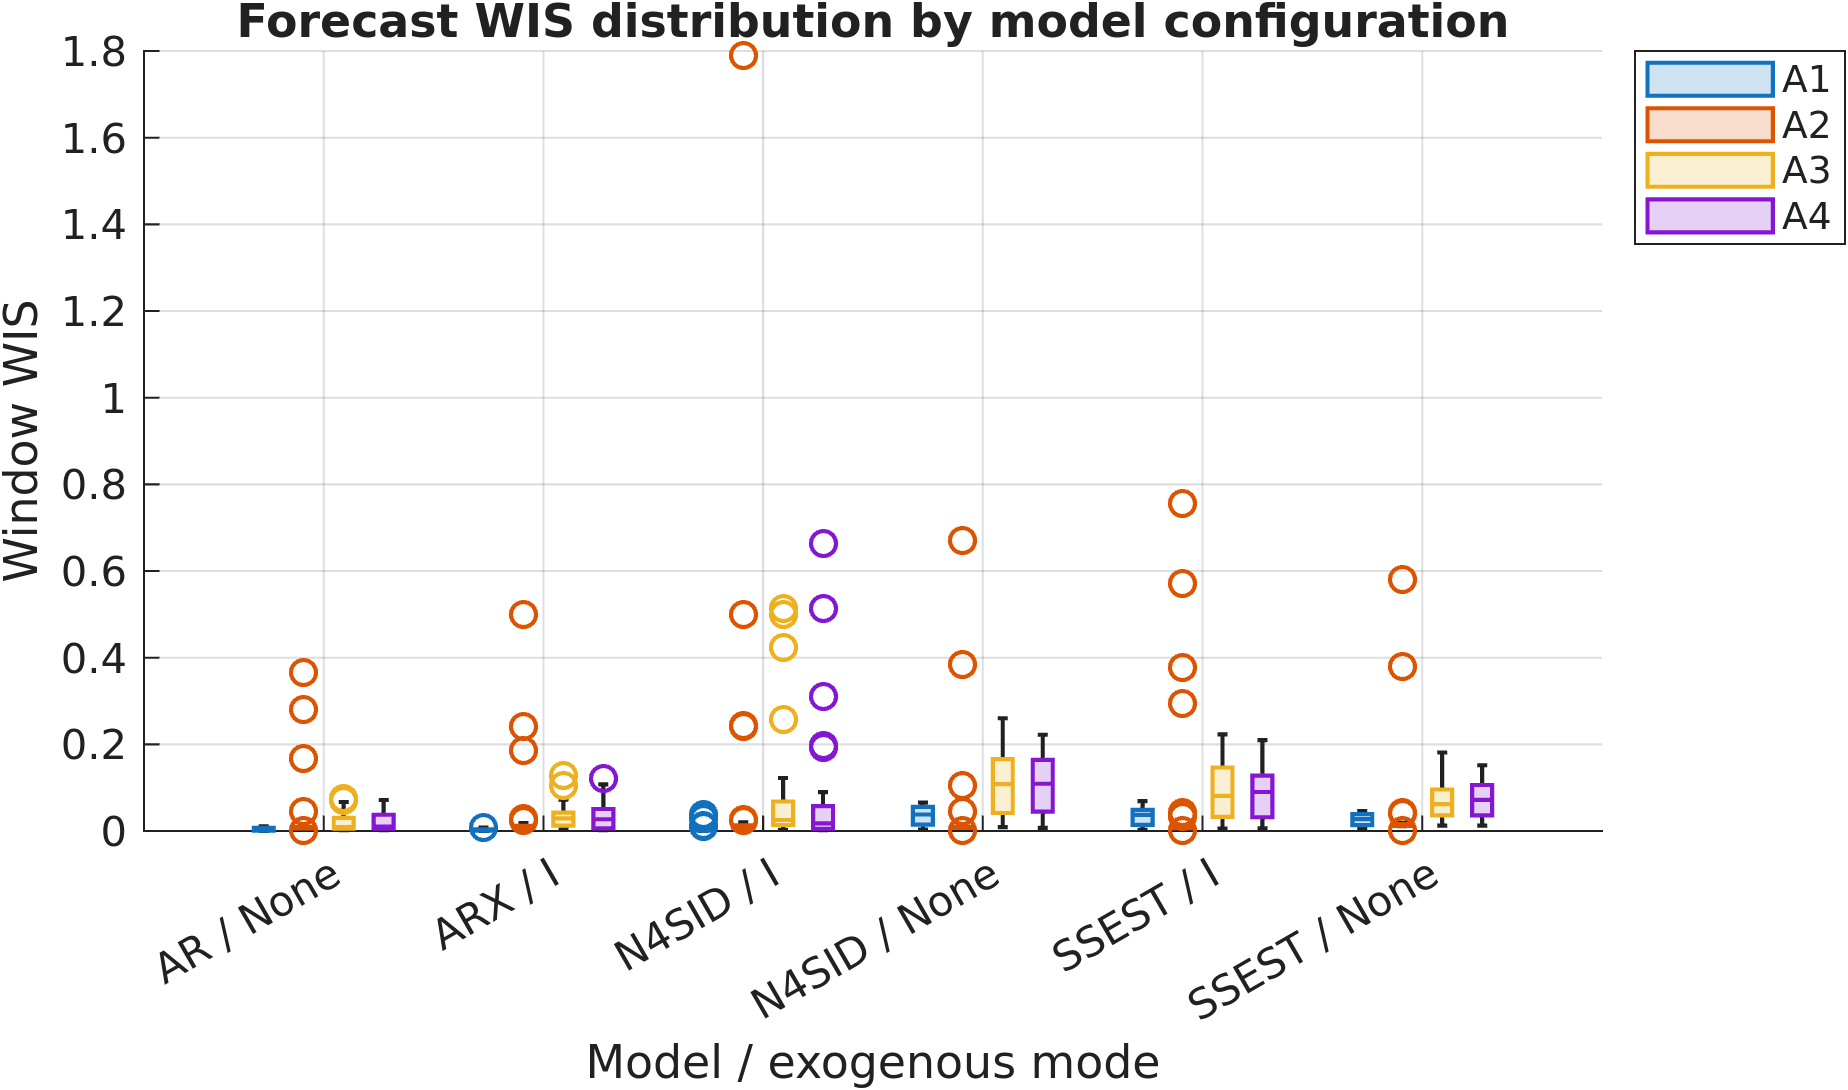
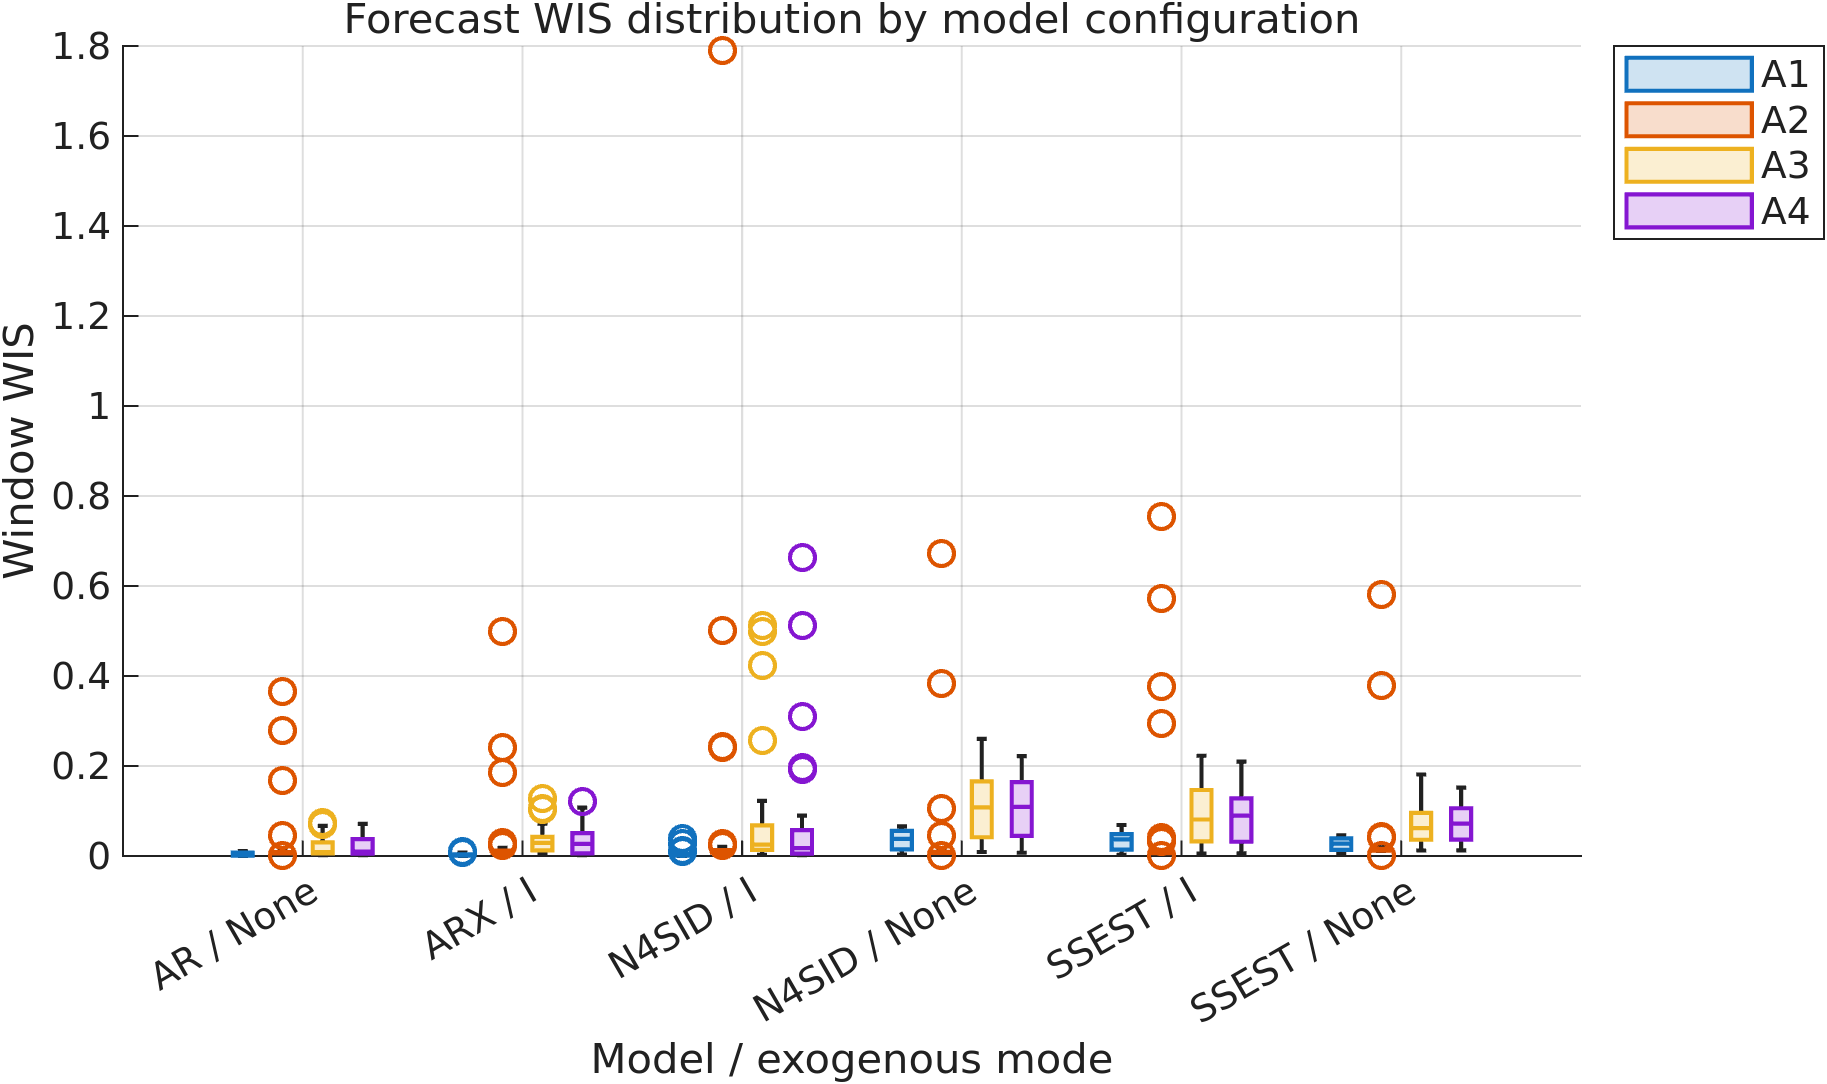
feat(visualization): enhance figure generation and plotting specifications

diff --git a/scripts/partA/partA_05_generate_figures.m b/scripts/partA/partA_05_generate_figures.m
@@ -64,16 +64,19 @@ fprintf('Indexed %d forecast artifacts, %d selection artifacts, and %d table fil
 generated_figures = strings(0, 1);
 
 %% 3. Scenario Trajectories
-scenario_labels = local_scenario_labels(truth_scenarios);
 rt_spec = build_plot_spec( ...
     'figure_name', "Part A Rt scenarios", ...
-    'title', "Synthetic effective reproduction-number scenarios", ...
-    'x_label', "Time (days)", ...
-    'y_label', "$\mathcal{R}_t$", ...
-    'scenario_labels', scenario_labels, ...
+    'title', "", ...
+    'shared_x_label', "Time, $t$ (days)", ...
+    'shared_y_label', "Effective reproduction number, $R_t$", ...
+    'panel_labels', local_panel_labels(numel(truth_scenarios)), ...
+    'panel_label_style', struct('FontSize', 10, 'FontWeight', 'bold'), ...
+    'font_size', 9, ...
+    'axis_label_font_size', 10, ...
+    'tick_label_font_size', 9, ...
     'y_limits', cfg.Rt.bounds, ...
     'output_path', fullfile(figure_dir, 'partA_05_rt_scenarios.png'), ...
-    'size_cm', [17.0, 12.0]);
+    'size_cm', [17.0, 10.5]);
 rt_panels = local_rt_scenario_panels(truth_scenarios, rt_spec);
 fig = plot_multi_panel_figure(rt_panels, rt_spec);
 generated_figures = [generated_figures; export_figure(fig, rt_spec)]; %#ok<AGROW>
@@ -151,30 +154,31 @@ else
             char(local_safe_token(scenario_id)), ...
             char(local_safe_token(best_config.Model)), ...
             char(local_safe_token(best_config.ExoMode)));
-        comparison_title = sprintf('%d-day-ahead forecast comparison: %s, %s / %s', ...
-            cfg.forecast.plot_lead_time, char(truth_scenarios(i).scenario_name), ...
-            char(best_config.Model), char(best_config.ExoMode));
-        interval_labels = string(compose('%d%% predictive interval', ...
+        interval_labels = string(compose('%d%% PI', ...
             round((1 - sort(double(cfg.forecast.plot_alphas(:)))) * 100)));
         interval_labels = interval_labels(:);
         legend_spec = struct( ...
             'truth_label', "Ground truth", ...
-            'median_label', sprintf('%d-day-ahead median forecast', ...
-            cfg.forecast.plot_lead_time), ...
+            'median_label', "Median forecast", ...
             'interval_labels', interval_labels, ...
-            'location', "northwest");
+            'location', "northoutside", ...
+            'orientation', "horizontal", ...
+            'box', "off");
 
         comparison_spec = build_plot_spec( ...
             'figure_name', "Part A forecast comparison", ...
-            'title', comparison_title, ...
-            'x_label', "Time (days)", ...
-            'y_label', "$\mathcal{R}_t$", ...
+            'title', "", ...
+            'x_label', "Time, $t$ (days)", ...
+            'y_label', "Effective reproduction number, $R_t$", ...
+            'font_size', 9, ...
+            'axis_label_font_size', 10, ...
+            'tick_label_font_size', 9, ...
             'lead_time', cfg.forecast.plot_lead_time, ...
             'plot_alphas', cfg.forecast.plot_alphas, ...
             'y_limits', cfg.Rt.bounds, ...
             'legend', legend_spec, ...
             'output_path', fullfile(figure_dir, plot_name), ...
-            'size_cm', [17.0, 9.5]);
+            'size_cm', [17.0, 9.0]);
 
         fprintf('Drawing comparison from %s\n', forecast_path);
         [comparison_panel, comparison_spec] = local_forecast_comparison_panel( ...
@@ -239,16 +243,15 @@ function table_data = local_read_table_required(table_path)
     table_data = readtable(table_path);
 end
 
-function labels = local_scenario_labels(scenarios)
-%LOCAL_SCENARIO_LABELS Build Part A scenario panel labels.
-    labels = strings(numel(scenarios), 1);
-    for i = 1:numel(scenarios)
-        labels(i) = string(scenarios(i).scenario_id) + " - " + ...
-            string(scenarios(i).scenario_name);
+function labels = local_panel_labels(num_panels)
+%LOCAL_PANEL_LABELS Build compact alphabetical panel labels.
+    labels = strings(num_panels, 1);
+    for i = 1:num_panels
+        labels(i) = sprintf('(%s)', char('a' + i - 1));
     end
 end
 
-function panels = local_rt_scenario_panels(scenarios, plot_spec)
+function panels = local_rt_scenario_panels(scenarios, ~)
 %LOCAL_RT_SCENARIO_PANELS Build generic panels for scenario trajectories.
     panels = repmat(struct('series', [], 'plot_spec', struct()), ...
         numel(scenarios), 1);
@@ -259,12 +262,10 @@ function panels = local_rt_scenario_panels(scenarios, plot_spec)
         series.x = t_values;
         series.y = rt_values;
         series.legend_visible = false;
-        series.style = struct('Color', [], 'LineWidth', 1.8);
+        series.style = struct('Color', [], 'LineWidth', 1.3);
 
         panels(i).series = series;
-        panels(i).plot_spec = struct( ...
-            'title', local_scenario_panel_title(scenarios(i), plot_spec, i), ...
-            'legend', struct('visible', false));
+        panels(i).plot_spec = struct('legend', struct('visible', false));
     end
 end
 
@@ -435,7 +436,7 @@ function [panel, plot_spec] = local_forecast_comparison_panel( ...
     truth_series.label = local_legend_field(plot_spec.legend, ...
         'truth_label', "Truth");
     truth_series.style = struct('Color', [0, 0, 0], 'LineStyle', '-', ...
-        'LineWidth', 2.0, 'Marker', 'none');
+        'LineWidth', 1.4, 'Marker', 'none');
     truth_series.legend_rank = 1;
     series(end + 1, 1) = truth_series; %#ok<AGROW>
 
@@ -478,18 +479,6 @@ function [t_values, rt_values] = local_truth_curve(truth_curve)
         rt_values = double(truth_curve.Rt_true(:));
     else
         rt_values = double(truth_curve.Rt(:));
-    end
-end
-
-function title_text = local_scenario_panel_title(scenario, plot_spec, idx)
-%LOCAL_SCENARIO_PANEL_TITLE Resolve one scenario panel title.
-    labels = string(plot_spec.scenario_labels);
-    if numel(labels) >= idx && strlength(labels(idx)) > 0
-        title_text = labels(idx);
-    elseif isfield(scenario, 'scenario_id')
-        title_text = string(scenario.scenario_id);
-    else
-        title_text = "";
     end
 end
 

diff --git a/src/visualization/plot_single_panel.m b/src/visualization/plot_single_panel.m
@@ -66,6 +66,7 @@ function [fig, ax, handles] = plot_single_panel(varargin)
         return;
     end
 
+    local_apply_fonts(ax, plot_spec);
     local_apply_labels(ax, plot_spec);
     local_apply_limits(ax, plot_spec);
     local_apply_grid(ax, plot_spec);
@@ -377,16 +378,34 @@ function merged = local_merge_struct(base, override)
     end
 end
 
+function local_apply_fonts(ax, plot_spec)
+%LOCAL_APPLY_FONTS Apply base and tick-label font sizes to an axes.
+    base_size = local_spec_field(plot_spec, 'font_size', 9);
+    tick_size = local_spec_field(plot_spec, 'tick_label_font_size', base_size);
+    set(ax, 'FontSize', double(tick_size), ...
+        'LabelFontSizeMultiplier', 1.0, 'TitleFontSizeMultiplier', 1.0);
+end
+
 function local_apply_labels(ax, plot_spec)
 %LOCAL_APPLY_LABELS Apply optional title and axis labels.
+    label_size = local_axis_label_font_size(plot_spec);
     title_text = local_spec_field(plot_spec, 'title', "");
     if strlength(title_text) > 0
-        title(ax, title_text, 'Interpreter', local_text_interpreter(title_text));
+        title(ax, title_text, 'Interpreter', local_text_interpreter(title_text), ...
+            'FontWeight', 'normal', 'FontSize', double(label_size));
     end
     x_label = local_spec_field(plot_spec, 'x_label', "");
     y_label = local_spec_field(plot_spec, 'y_label', "");
-    xlabel(ax, x_label, 'Interpreter', local_text_interpreter(x_label));
-    ylabel(ax, y_label, 'Interpreter', local_text_interpreter(y_label));
+    xlabel(ax, x_label, 'Interpreter', local_text_interpreter(x_label), ...
+        'FontSize', double(label_size));
+    ylabel(ax, y_label, 'Interpreter', local_text_interpreter(y_label), ...
+        'FontSize', double(label_size));
+end
+
+function label_size = local_axis_label_font_size(plot_spec)
+%LOCAL_AXIS_LABEL_FONT_SIZE Resolve the axis-label font size.
+    label_size = local_spec_field(plot_spec, 'axis_label_font_size', ...
+        local_spec_field(plot_spec, 'font_size', 10));
 end
 
 function local_apply_limits(ax, plot_spec)
@@ -444,7 +463,33 @@ function local_apply_legend(ax, plot_spec, legend_handles, legend_ranks)
     end
 
     location = local_legend_field(legend_spec, 'location', "best");
-    legend(ax, legend_handles, 'Location', char(location));
+    lgd = legend(ax, legend_handles, 'Location', char(location));
+
+    orientation = local_legend_field(legend_spec, 'orientation', "");
+    if strlength(orientation) > 0
+        lgd.Orientation = char(orientation);
+    end
+    if isstruct(legend_spec) && isfield(legend_spec, 'box') && ...
+            ~isempty(legend_spec.box)
+        lgd.Box = local_on_off(legend_spec.box);
+    end
+    lgd.FontSize = double(local_spec_field(plot_spec, 'tick_label_font_size', ...
+        local_spec_field(plot_spec, 'font_size', 9)));
+end
+
+function value = local_on_off(flag)
+%LOCAL_ON_OFF Convert a logical or string flag to an 'on'/'off' value.
+    if ischar(flag) || isstring(flag)
+        if any(strcmpi(string(flag), ["off", "false", "none", "no"]))
+            value = 'off';
+        else
+            value = 'on';
+        end
+    elseif logical(flag)
+        value = 'on';
+    else
+        value = 'off';
+    end
 end
 
 function visible = local_legend_visible(legend_spec)

diff --git a/src/visualization/plot_multi_panel_figure.m b/src/visualization/plot_multi_panel_figure.m
@@ -44,9 +44,13 @@ function [fig, layout, axes_handles] = plot_multi_panel_figure(panel_data, plot_
     layout = tiledlayout(fig, num_rows, num_cols, ...
         'Padding', 'compact', 'TileSpacing', 'compact');
 
+    label_size = local_spec_field(plot_spec, 'axis_label_font_size', ...
+        local_spec_field(plot_spec, 'font_size', 10));
+
     title_text = local_spec_field(plot_spec, 'title', "");
     if strlength(title_text) > 0
-        title(layout, title_text, 'Interpreter', local_text_interpreter(title_text));
+        title(layout, title_text, 'Interpreter', local_text_interpreter(title_text), ...
+            'FontWeight', 'normal', 'FontSize', double(label_size));
     end
 
     %% 2. Panel Drawing
@@ -56,6 +60,23 @@ function [fig, layout, axes_handles] = plot_multi_panel_figure(panel_data, plot_
         axes_handles(i) = ax;
         panel_spec = local_panel_plot_spec(panel_data(i), plot_spec, i);
         plot_single_panel(ax, panel_data(i), panel_spec);
+    end
+
+    %% 3. Shared Axis Labels
+    local_apply_shared_labels(layout, plot_spec, label_size);
+end
+
+function local_apply_shared_labels(layout, plot_spec, label_size)
+%LOCAL_APPLY_SHARED_LABELS Draw shared x/y labels on the tiled layout.
+    shared_x = string(local_spec_field(plot_spec, 'shared_x_label', ""));
+    shared_y = string(local_spec_field(plot_spec, 'shared_y_label', ""));
+    if strlength(shared_x) > 0
+        xlabel(layout, shared_x, 'Interpreter', local_text_interpreter(shared_x), ...
+            'FontSize', double(label_size));
+    end
+    if strlength(shared_y) > 0
+        ylabel(layout, shared_y, 'Interpreter', local_text_interpreter(shared_y), ...
+            'FontSize', double(label_size));
     end
 end
 
@@ -86,6 +107,15 @@ function panel_spec = local_panel_plot_spec(panel_data, plot_spec, idx)
     panel_spec = plot_spec;
     panel_spec.title = local_panel_title(panel_data, plot_spec, idx);
     panel_spec.panel_label = local_panel_label(panel_data, plot_spec, idx);
+
+    % Shared labels are drawn once on the layout, so suppress the per-panel
+    % copies to avoid repeating long axis labels on every tile.
+    if strlength(string(local_spec_field(plot_spec, 'shared_x_label', ""))) > 0
+        panel_spec.x_label = "";
+    end
+    if strlength(string(local_spec_field(plot_spec, 'shared_y_label', ""))) > 0
+        panel_spec.y_label = "";
+    end
 
     if isfield(panel_data, 'plot_spec') && isstruct(panel_data.plot_spec)
         panel_spec = local_merge_struct(panel_spec, panel_data.plot_spec);

diff --git a/src/visualization/build_plot_spec.m b/src/visualization/build_plot_spec.m
@@ -39,6 +39,13 @@ function plot_spec = build_plot_spec(varargin)
     plot_spec.plot_alphas = [];
     plot_spec.scenario_labels = strings(0, 1);
     plot_spec.resolution = 300;
+    plot_spec.font_size = [];
+    plot_spec.axis_label_font_size = [];
+    plot_spec.tick_label_font_size = [];
+    plot_spec.panel_labels = strings(0, 1);
+    plot_spec.panel_label_style = struct();
+    plot_spec.shared_x_label = "";
+    plot_spec.shared_y_label = "";
 
     %% 2. Merge Inputs
     arg_idx = 1;
